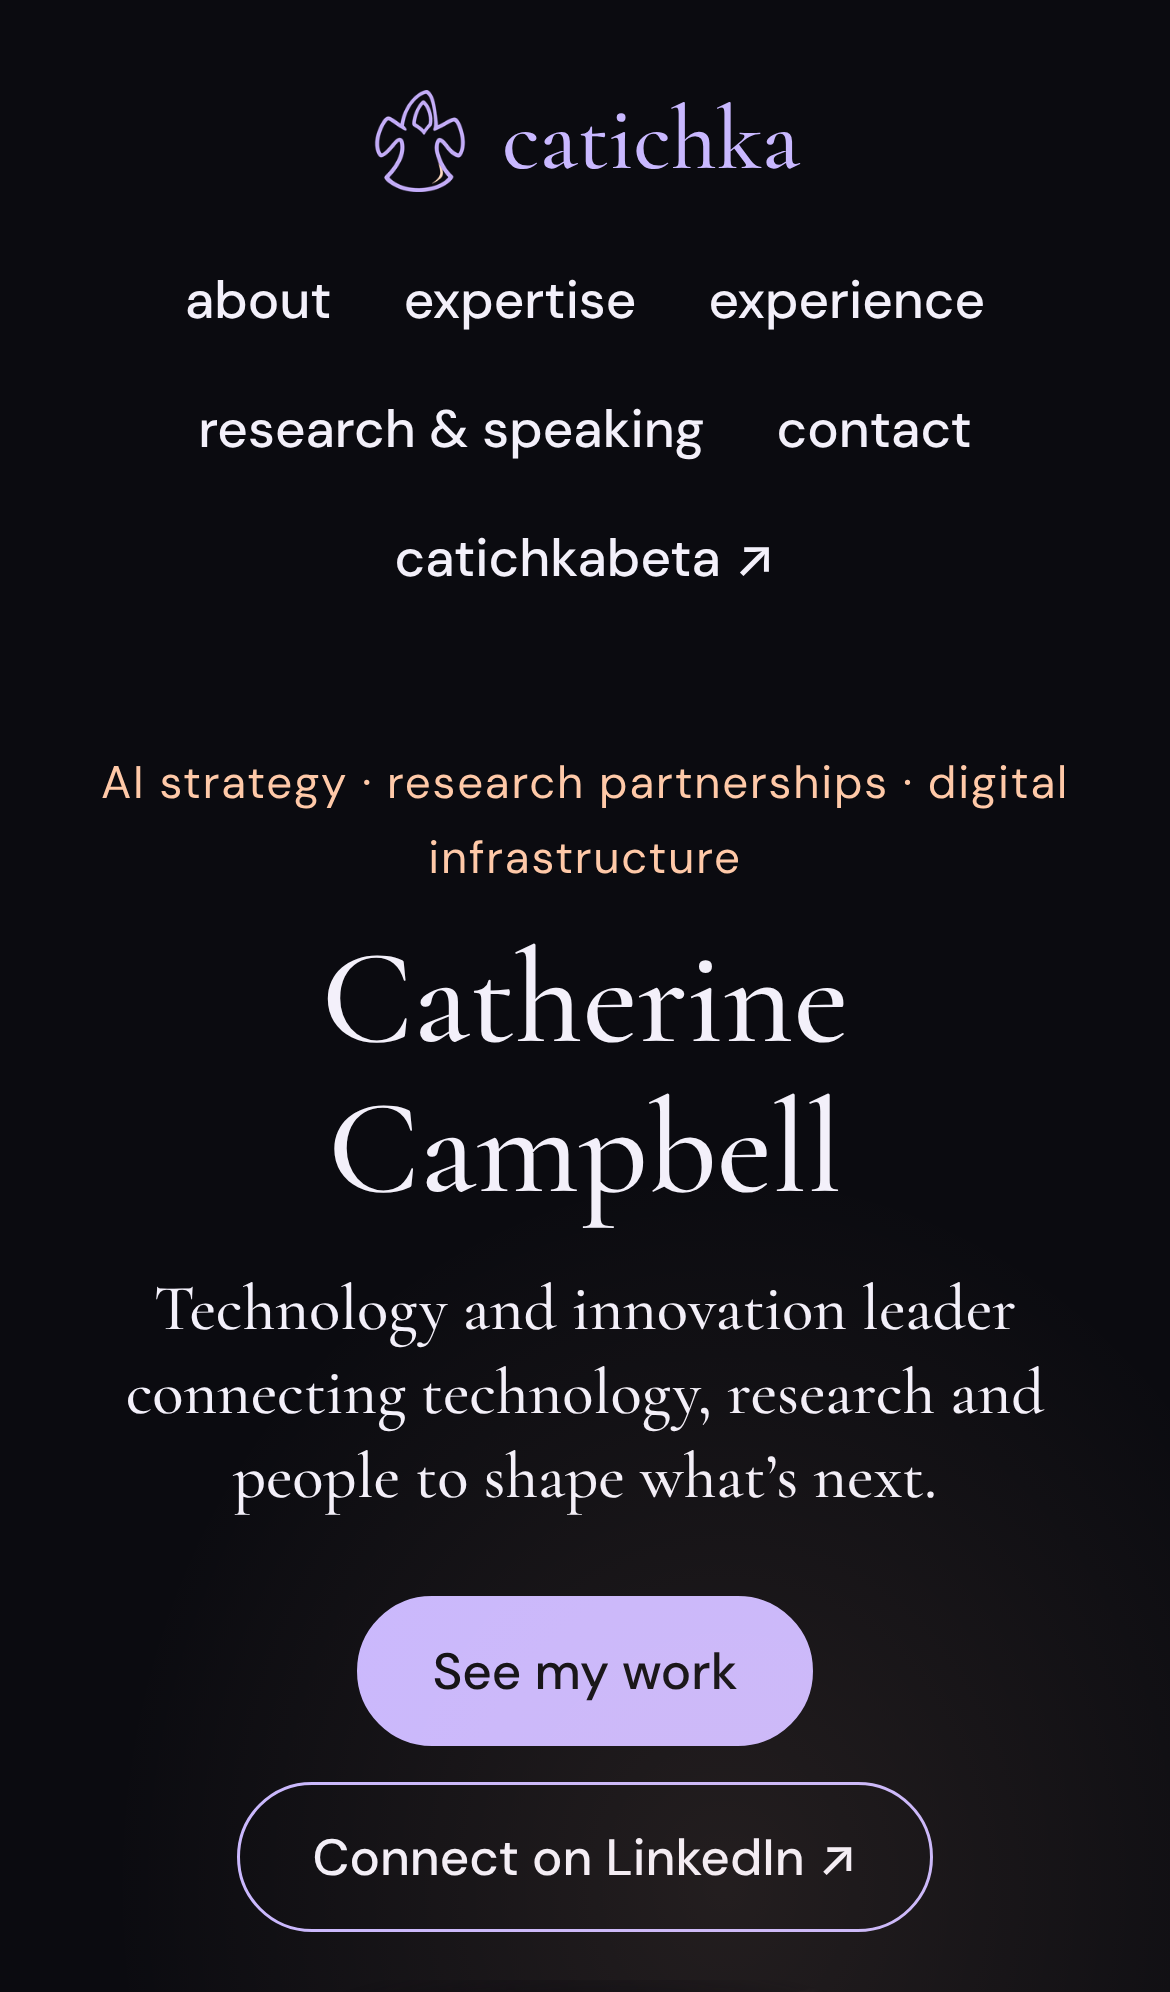
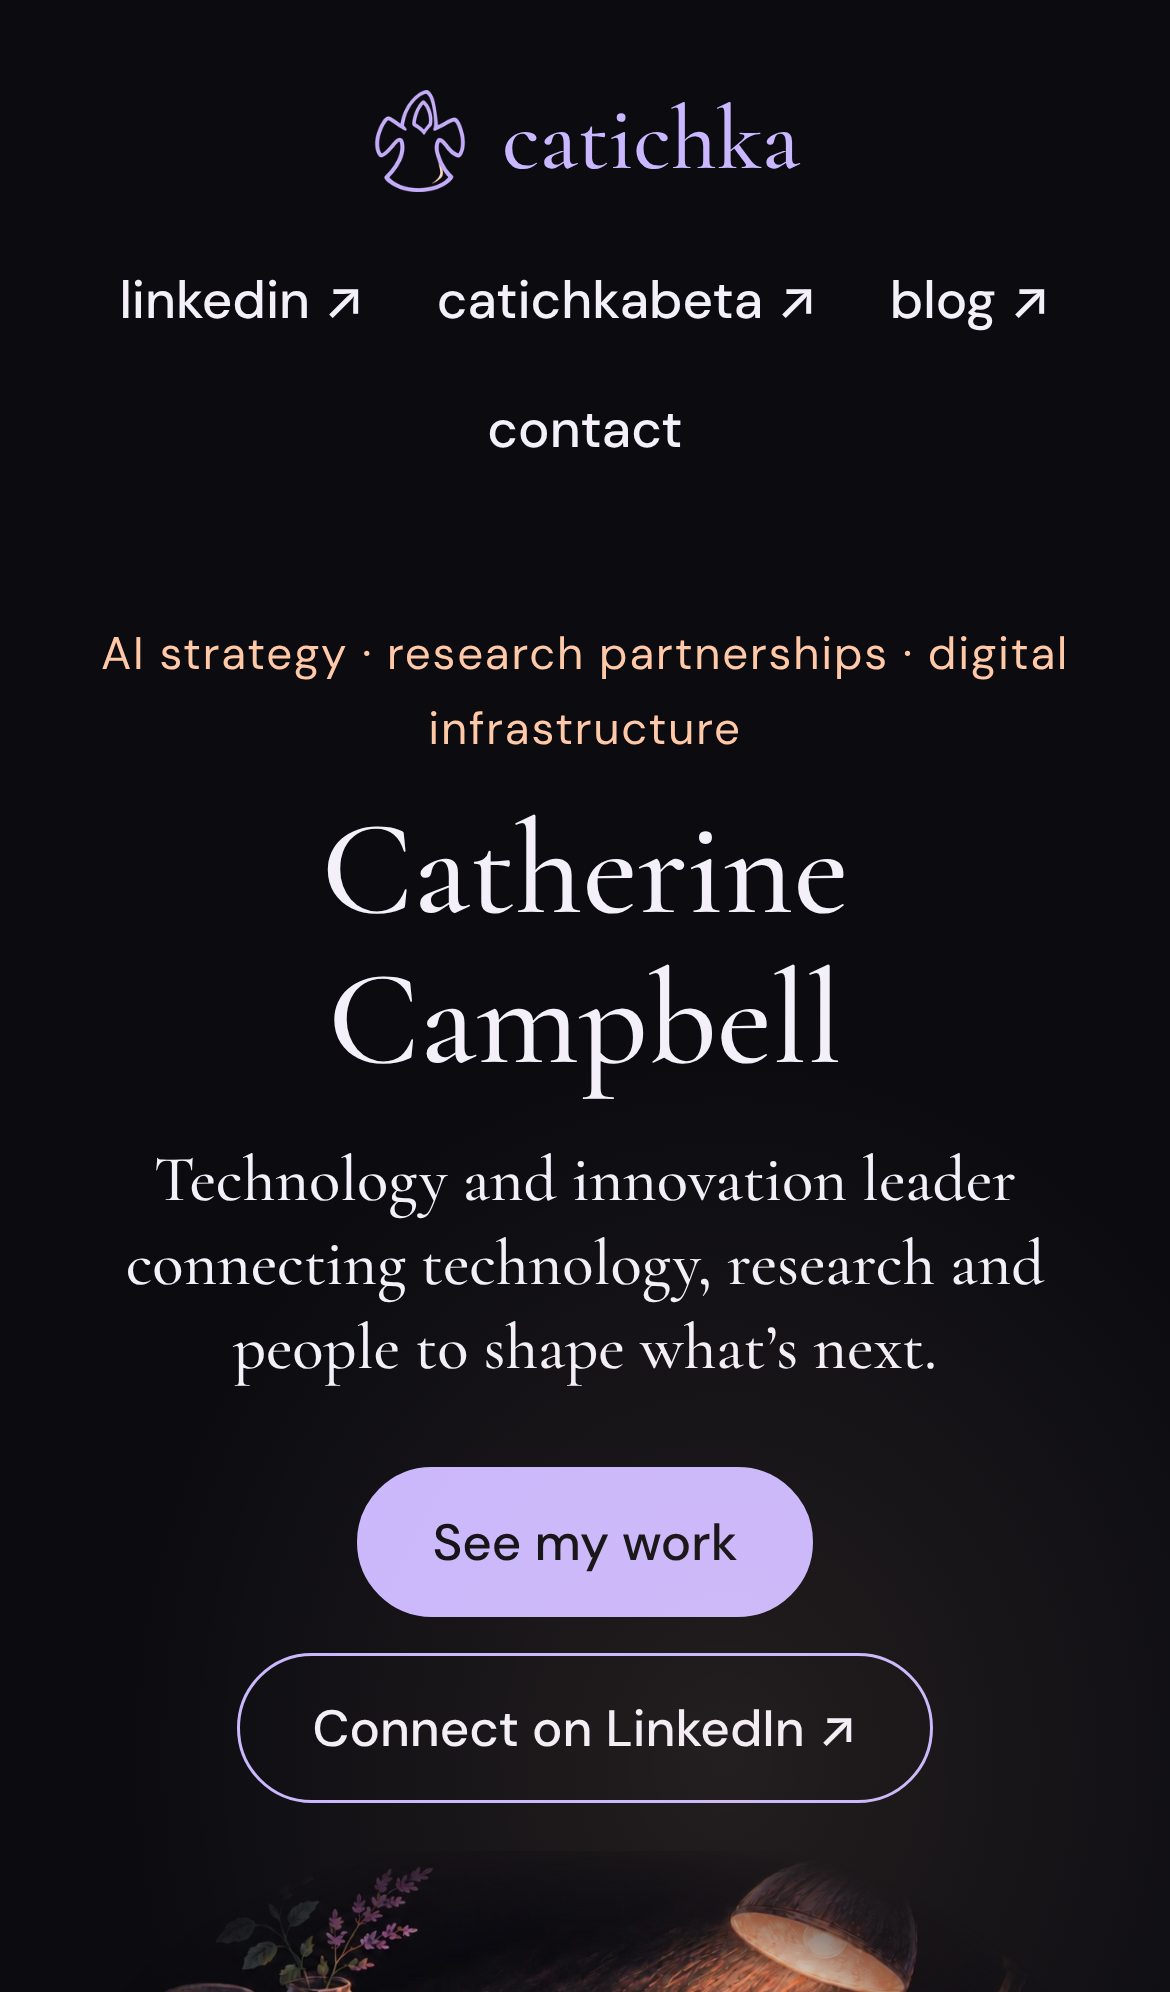
Make LinkedIn, CatichkaBeta, blog and contact the top tabs
Contact opens an email to connect@catichkabeta.com, so the separate
contact section is gone.

Claude-Session: https://claude.ai/code/session_01EstHzd3ZrVaBXQQCWkzqig

diff --git a/src/site.ts b/src/site.ts
@@ -7,14 +7,13 @@ export const site = {
   description: 'Catherine Campbell: technology and innovation leader in AI strategy, research partnerships and digital infrastructure.',
 };
 
-// Nav labels and order. Catherine, 10 Nov 2026: this is a professional site, not a blog.
+// Top tabs (Catherine, 10 Nov 2026): LinkedIn, CatichkaBeta, blog on Substack, and contact by email.
+// The page itself is a professional showcase, not a blog.
 export const nav = [
-  { href: '/#about', label: 'about' },
-  { href: '/#expertise', label: 'expertise' },
-  { href: '/#experience', label: 'experience' },
-  { href: '/#research', label: 'research & speaking' },
-  { href: '/#contact', label: 'contact' },
+  { href: 'https://www.linkedin.com/in/catherinecampbell-/', label: 'linkedin', external: true },
   { href: 'https://catichkabeta.com', label: 'catichkabeta', external: true },
+  { href: 'https://substack.com/@ca7ichka', label: 'blog', external: true },
+  { href: 'mailto:connect@catichkabeta.com', label: 'contact' },
 ];
 
 const linkedin = 'https://www.linkedin.com/in/catherinecampbell-/';
@@ -63,16 +62,6 @@ export const research = {
   ],
 };
 
-export const contact = {
-  line: 'For partnerships, research collaboration, speaking or advisory work, get in touch.',
-  email: 'connect@catichkabeta.com',
-  links: [
-    { label: 'LinkedIn', href: linkedin },
-    { label: 'Substack', href: 'https://substack.com/@ca7ichka' },
-    { label: 'Instagram', href: 'https://www.instagram.com/catichkasphilosophyforlife/' },
-    { label: 'X', href: 'https://x.com/catichka' },
-  ],
-};
 
 export const art = {
   mark: '/art/mark.png', // approved druid mark (batch 1), edges cleaned for web

diff --git a/chatgpt-art-brief.md b/chatgpt-art-brief.md
@@ -65,12 +65,11 @@ Batch 1 is approved: the hero direction (notebook under the lamp), the druid mar
 3. **Expertise:** AI strategy and responsible AI, research and innovation partnerships, digital infrastructure.
 4. **Experience:** a career timeline (nbn, UTS Honorary Industry Fellow, ASTRID collaboration, founder of CatichkaBeta, earlier roles).
 5. **Research and speaking:** UTS, ORCID, talks, seminars and workshops on ethical and responsible AI.
-6. **Contact:** email, LinkedIn, plus the other socials.
-Nav: about, expertise, experience, research & speaking, contact, catichkabeta ↗.
+Top tabs (Catherine's call): linkedin ↗, catichkabeta ↗, blog ↗ (Substack) and contact (an email link to connect@catichkabeta.com). There's no separate contact section on the page.
 
 **Changes to batch 2**
 4. Hero illustration: text-free, based on the approved notebook composition (no nav or words baked in). Also make a narrow phone version, `hero-mobile.png` (about 900×1400, book and lamp centred, top third clear for the heading), or supply layers.
-5. Section icons: About, Expertise, Experience, Research and speaking, Contact (five, not four). Square, transparent PNGs.
+5. Section icons: About, Expertise, Experience, Research and speaking (four). Square, transparent PNGs.
 6. Portrait treatment: now more important, because it goes in About. I'll supply the photo.
 7. Link preview card: unchanged.
 
